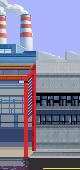
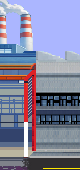
Ajeitei a hitbox das portas e a saida

Changed region(s): [[0.3, 0.7059, 0.35, 0.9412]]

diff --git a/core/src/main/java/com/osbarnabe/workbot/GameScreen.java b/core/src/main/java/com/osbarnabe/workbot/GameScreen.java
@@ -46,7 +46,7 @@ public class GameScreen implements Screen {
     // Texturas do cenário
     private Texture RoboParadoImg, RoboDirImg, RoboEsqImg;
     private Texture fabrica1Img, fabrica2Img, fabrica3Img;
-    private Texture ceitImg, ceu1Img, ceu2Img, localFinalImg;
+    private Texture ceitImg, ceu1Img, ceu2Img, localFinalImg, portinha2Img;
     private Texture trabalhadorImg, trabalhador2Img, trabalhador3Img;
     private Texture inicioImg, portinhaImg;
     private Texture localportaImg, localporta2Img, localporta3Img;
@@ -140,6 +140,7 @@ public class GameScreen implements Screen {
         trabalhador3Img = jogo.assets.get("trabalhador3.png", Texture.class);
         pontoImg       = jogo.assets.get("ponto.png",        Texture.class);
         localFinalImg  = jogo.assets.get("localFinal.png", Texture.class);
+        portinha2Img   = jogo.assets.get("portinha2.png", Texture.class);
         balaoNPC1 = jogo.assets.get("BalaoFala_NPC1.png", Texture.class);
         balaoNPC3 = jogo.assets.get("BalaoFala_NPC3.png", Texture.class);
         animacaoBalao = new Animation<>(0.4f,
@@ -180,9 +181,9 @@ public class GameScreen implements Screen {
         roboY = inicioY;
 
         // Porta 1 → leva ao Puzzle 1 (sorting de itens)
-        porta1 = new Porta(2650f, 0f, 150f, alturaJanela - 259f);
+        porta1 = new Porta(2600f, 0f, 150f, alturaJanela - 259f);
         // Porta 2 → leva ao Puzzle 2 (Flappy Bird)
-        porta2 = new Porta(4750f, 0f, 150f, alturaJanela - 259f);
+        porta2 = new Porta(4600f, 0f, 150f, alturaJanela - 259f);
     }
 
     private boolean pertoDoNPC(float npcX) {
@@ -336,7 +337,8 @@ public class GameScreen implements Screen {
         batch.draw(ceu1Img,        4300, alturaJanela - 259, 700, 259);
         batch.draw(localFinalImg,  4900, 0, 700, alturaJanela-259);
         batch.draw(ceu2Img,        4900, alturaJanela-259, 700, 259);
-        batch.draw(ceitImg,        5600, 0, 700, alturaJanela);
+        batch.draw(ceitImg,        5600, 0, 700, alturaJanela-259);
+        batch.draw(ceu1Img,        5600, alturaJanela-259,700, 259);
 
         // Trabalhadores animados
         batch.draw(animacaoTrabalhador2.getKeyFrame(elapsedTime, true), 2970, 210, 260, 260);
@@ -425,7 +427,8 @@ public class GameScreen implements Screen {
             roboY = 70f;
         }
         batch.draw(frame, roboX, roboY, tamanhoRobo, tamanhoRobo);
-        batch.draw(portinhaImg, 0, 0, 800, alturaJanela - 259);
+        batch.draw(portinhaImg,    0, 0, 800, alturaJanela - 259);
+        batch.draw(portinha2Img,   4900, 0, 700, alturaJanela-259);
 
         // Aviso AFK
         if (tempoAFK <= 5f && tempoAFK > 0f) {

diff --git a/core/src/main/java/com/osbarnabe/workbot/LoadingScreen.java b/core/src/main/java/com/osbarnabe/workbot/LoadingScreen.java
@@ -48,6 +48,7 @@ public class LoadingScreen implements Screen {
         jogo.assets.load("ponto.png",        Texture.class);
         jogo.assets.load("trabalhador1flnd.png", Texture.class);
         jogo.assets.load("localFinal.png", Texture.class);
+        jogo.assets.load("portinha2.png", Texture.class);
         jogo.assets.load("BalaoFala_NPC1.png", Texture.class);
         jogo.assets.load("BalaoFala_NPC3.png", Texture.class);
         jogo.assets.load("botaoInt.png", Texture.class);
